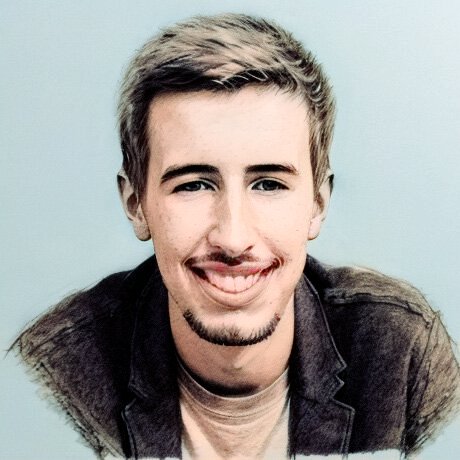
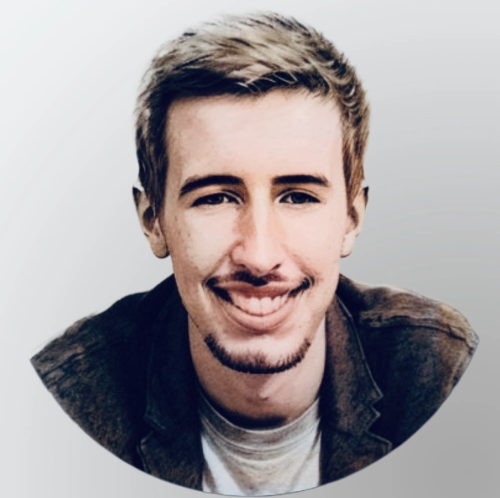
New pic and smaller meta for post cards

diff --git a/_includes/post-card.html b/_includes/post-card.html
@@ -6,7 +6,7 @@
         <p class="mb-4 font-normal text-gray-600 text-sm sm:text-base md:text-sm lg:text-base">
             {{ include.excerpt | strip_html | strip_newlines | truncatewords: 35 }}  
         </p>
-        <p class="sm:text-sm md:text-base text-slate-500">
+        <p class="text-xs sm:text-sm md:text-base text-slate-500">
             {{ include.date | date: "%b %d, %Y" }} ·
             {% include read-time.html %} ·
             Harry Baines
